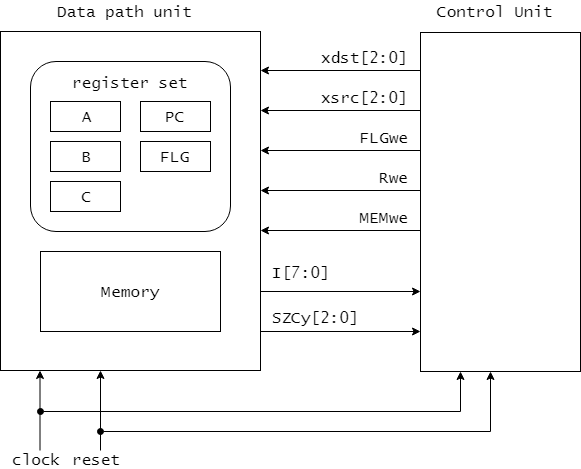
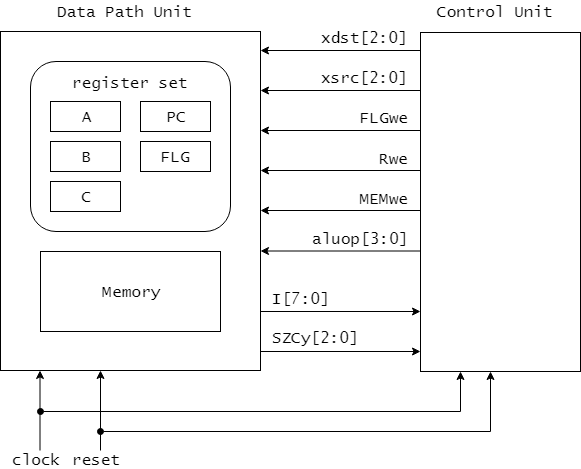
some fix in sec3

diff --git a/03_MicroArchitecture_of_CDECv.md b/03_MicroArchitecture_of_CDECv.md
@@ -30,7 +30,7 @@ CDECvも図3.1に示すように、データパス部と制御部から構成さ
 | FLGwe     | FLGレジスタへの書き込み許可   |
 | Rwe       | 補助レジスタRへの書き込み許可 |
 | MEMwe     | メモリへの書き込み許可        |
-| aluop     | ALUの演算選択信号 |
+| aluop[3:0] | ALUの演算選択信号 |
 
 
 制御部は制御信号を生成するための回路です。
